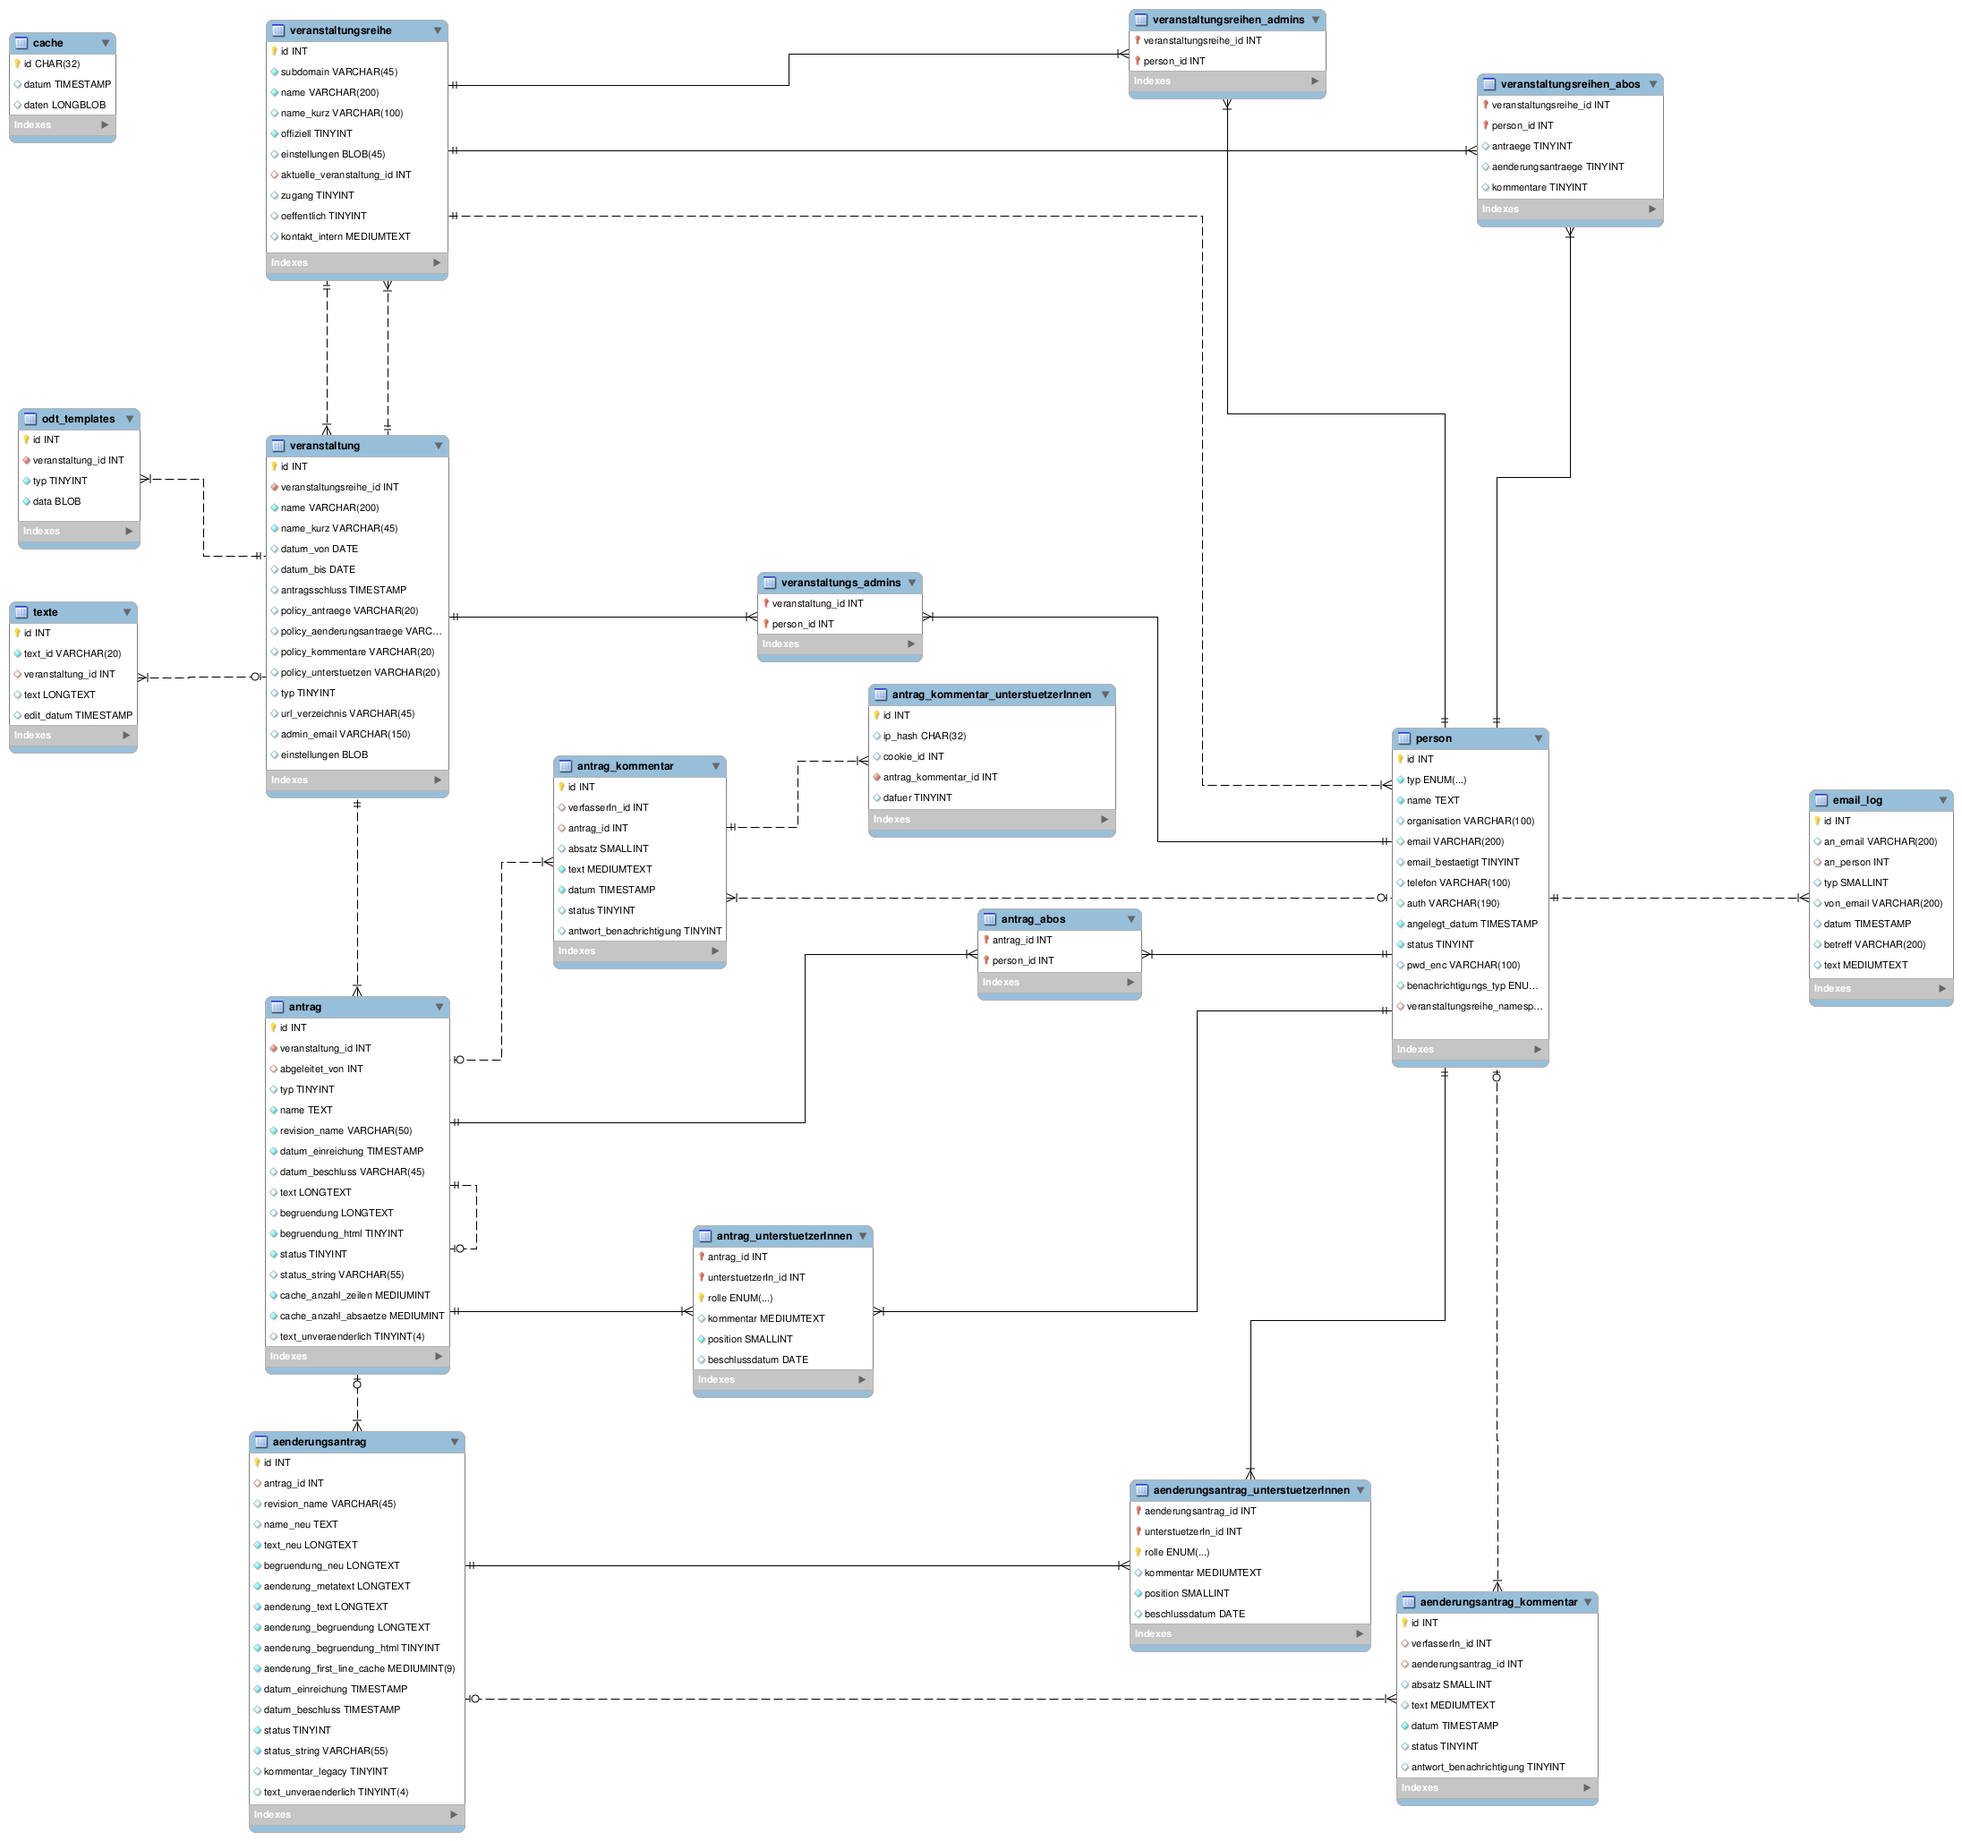
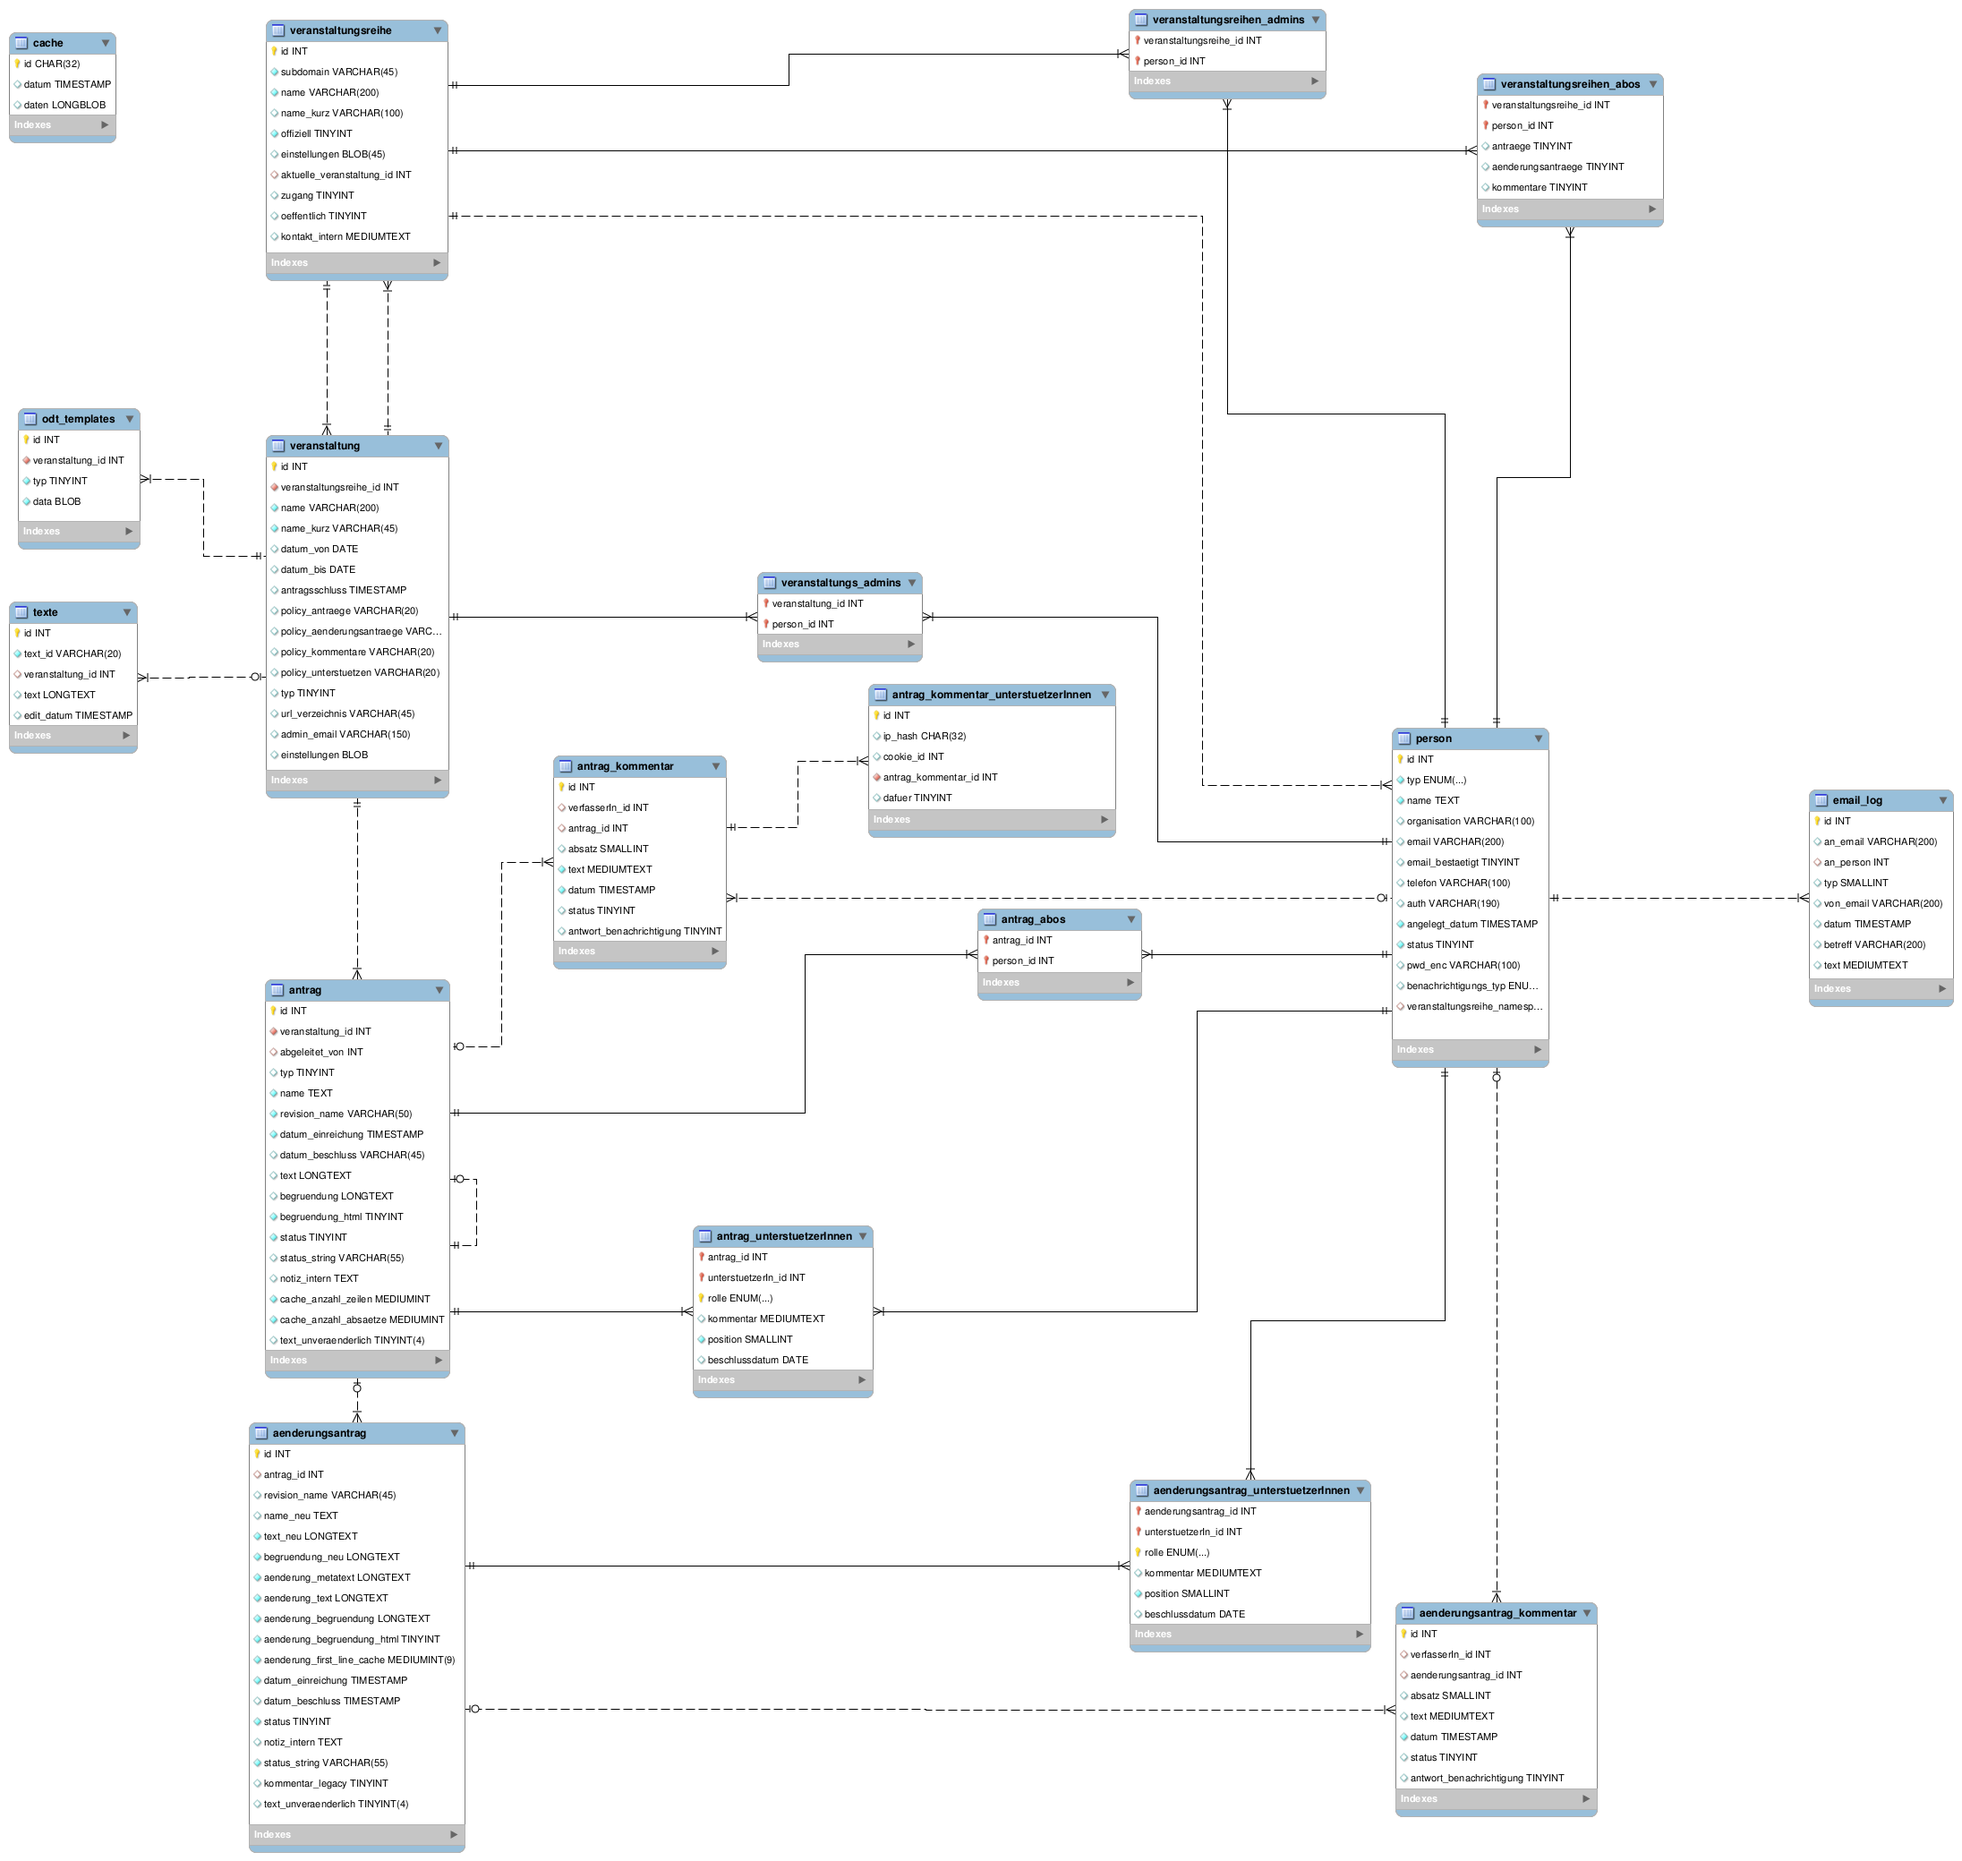
Interne Notiz bei Anträgen

diff --git a/protected/views/admin/aenderungsantraege/_form.php b/protected/views/admin/aenderungsantraege/_form.php
@@ -1,78 +1,85 @@
 <div class="form">
 
 
-<?php
-/**
- * @var $this AenderungsantragController
- * @var $form GxActiveForm
- * @var $model Aenderungsantrag
- */
+	<?php
+	/**
+	 * @var $this AenderungsantragController
+	 * @var $form GxActiveForm
+	 * @var $model Aenderungsantrag
+	 */
 
-$form = $this->beginWidget('GxActiveForm', array(
-	'id'                   => 'aenderungsantrag-form',
-	'enableAjaxValidation' => true,
-));
+	$form = $this->beginWidget('GxActiveForm', array(
+		'id'                   => 'aenderungsantrag-form',
+		'enableAjaxValidation' => true,
+	));
 
-?>
-
-<p class="note">
-	<?php echo Yii::t('app', 'Fields with'); ?> <span class="required">*</span> <?php echo Yii::t('app', 'are required'); ?>.
-</p>
-
-<?php echo $form->errorSummary($model); ?>
-
-<div>
-	<?php echo $form->labelEx($model, 'antrag_id'); ?>
-	<?php echo $form->dropDownList($model, 'antrag_id', GxHtml::listDataEx(Antrag::model()->findAllAttributes(null, true))); ?>
-	<?php echo $form->error($model, 'antrag_id'); ?>
-</div>
-<!-- row -->
-<div>
-	<?php echo $form->labelEx($model, 'revision_name'); ?>
-	<?php echo $form->textField($model, 'revision_name'); ?>
-	<?php echo $form->error($model, 'revision_name'); ?>
-</div>
-<!-- row -->
-<div>
-	<?php echo $form->labelEx($model, 'name_neu'); ?>
-	<?php echo $form->textField($model, 'name_neu'); ?>
-	<?php echo $form->error($model, 'name_neu'); ?>
-</div>
-<!-- row -->
-<div>
-	<?php echo $form->labelEx($model, 'datum_einreichung'); ?>
-	<?php $form->widget('ext.datetimepicker.EDateTimePicker', array(
-	'model'     => $model,
-	'attribute' => "datum_einreichung",
-	'options'   => array(
-		'dateFormat' => 'yy-mm-dd',
-	),
-));
 	?>
-	<?php echo $form->error($model, 'datum_einreichung'); ?>
-</div>
-<!-- row -->
-<div>
-	<?php echo $form->labelEx($model, 'datum_beschluss'); ?>
-	<?php $form->widget('ext.datetimepicker.EDateTimePicker', array(
-	'model'     => $model,
-	'attribute' => "datum_beschluss",
-	'options'   => array(
-		'dateFormat' => 'yy-mm-dd',
-	),
-));
-	?>
-	<?php echo $form->error($model, 'datum_beschluss'); ?>
-</div>
-<!-- row -->
-<div>
-	<?php echo $form->labelEx($model, 'status'); ?>
-	<?php echo $form->dropDownList($model, 'status', Aenderungsantrag::$STATI); ?>
-	<?php echo $form->textField($model, 'status_string', array('maxlength' => 55)); ?>
-	<?php echo $form->error($model, 'status'); ?>
-</div>
-<!-- row -->
-<?php /*
+
+	<p class="note">
+		<?php echo Yii::t('app', 'Fields with'); ?> <span class="required">*</span> <?php echo Yii::t('app', 'are required'); ?>.
+	</p>
+
+	<?php echo $form->errorSummary($model); ?>
+
+	<div>
+		<?php echo $form->labelEx($model, 'antrag_id'); ?>
+		<?php echo $form->dropDownList($model, 'antrag_id', GxHtml::listDataEx(Antrag::model()->findAllAttributes(null, true))); ?>
+		<?php echo $form->error($model, 'antrag_id'); ?>
+	</div>
+	<!-- row -->
+	<div>
+		<?php echo $form->labelEx($model, 'revision_name'); ?>
+		<?php echo $form->textField($model, 'revision_name'); ?>
+		<?php echo $form->error($model, 'revision_name'); ?>
+	</div>
+	<!-- row -->
+	<div>
+		<?php echo $form->labelEx($model, 'name_neu'); ?>
+		<?php echo $form->textField($model, 'name_neu'); ?>
+		<?php echo $form->error($model, 'name_neu'); ?>
+	</div>
+	<!-- row -->
+	<div>
+		<?php echo $form->labelEx($model, 'datum_einreichung'); ?>
+		<?php $form->widget('ext.datetimepicker.EDateTimePicker', array(
+			'model'     => $model,
+			'attribute' => "datum_einreichung",
+			'options'   => array(
+				'dateFormat' => 'yy-mm-dd',
+			),
+		));
+		?>
+		<?php echo $form->error($model, 'datum_einreichung'); ?>
+	</div>
+
+	<div>
+		<?php echo $form->labelEx($model, 'datum_beschluss'); ?>
+		<?php $form->widget('ext.datetimepicker.EDateTimePicker', array(
+			'model'     => $model,
+			'attribute' => "datum_beschluss",
+			'options'   => array(
+				'dateFormat' => 'yy-mm-dd',
+			),
+		));
+		?>
+		<?php echo $form->error($model, 'datum_beschluss'); ?>
+	</div>
+
+	<div>
+		<?php echo $form->labelEx($model, 'status'); ?>
+		<?php echo $form->dropDownList($model, 'status', Aenderungsantrag::$STATI); ?>
+		<?php echo $form->textField($model, 'status_string', array('maxlength' => 55)); ?>
+		<?php echo $form->error($model, 'status'); ?>
+	</div>
+
+	<div>
+		<?php echo $form->labelEx($model, 'notiz_intern'); ?>
+		<?php echo $form->textField($model, 'notiz_intern'); ?>
+		<?php echo $form->error($model, 'notiz_intern'); ?>
+	</div>
+
+
+	<?php /*
 <div style="overflow: auto;">
     <label
             style="float: left;"><?php echo GxHtml::encode($model->getRelationLabel('aenderungsantragKommentare')); ?></label>
@@ -85,23 +92,27 @@ $form = $this->beginWidget('GxActiveForm', array(
 		?>
     </div>
 </div>
-*/ ?>
+*/
+	?>
 	<br>
+
 	<h3><?php echo GxHtml::encode($model->getRelationLabel('aenderungsantragUnterstuetzerInnen')); ?></h3>
 	<br>
-<div style="overflow: auto;">
-    <div style="float: left;">
+
+	<div style="overflow: auto;">
+		<div style="float: left;">
+			<?php
+			echo UnterstuetzerInnenAdminWidget::printUnterstuetzerInnenWidget($model, "aenderungsantragUnterstuetzerInnen");
+			?>
+		</div>
+	</div>
+	<br>
+	<br>
+
+	<div class="saveholder">
 		<?php
-		echo UnterstuetzerInnenAdminWidget::printUnterstuetzerInnenWidget($model, "aenderungsantragUnterstuetzerInnen");
+		echo GxHtml::submitButton(Yii::t('app', 'Save'), array("class" => "btn btn-primary"));
+		$this->endWidget();
 		?>
-    </div>
-</div>
-	<br>
-	<br>
-<div class="saveholder">
-	<?php
-	echo GxHtml::submitButton(Yii::t('app', 'Save'), array("class" => "btn btn-primary"));
-	$this->endWidget();
-	?>
-</div>
+	</div>
 </div><!-- form -->

diff --git a/protected/models/Aenderungsantrag.php b/protected/models/Aenderungsantrag.php
@@ -16,6 +16,7 @@
  * @property string $datum_beschluss
  * @property integer $status
  * @property string $status_string
+ * @property string $notiz_intern
  * @property int $kommentar_legacy
  * @property integer $text_unveraenderlich
  *
@@ -71,7 +72,7 @@ class Aenderungsantrag extends IAntrag
 			array('antrag_id, status, aenderung_first_line_cache, kommentar_legacy, text_unveraenderlich, aenderung_begruendung_html', 'numerical', 'integerOnly' => true),
 			array('revision_name', 'length', 'max' => 45),
 			array('status_string', 'length', 'max' => 55),
-			array('name_neu, datum_beschluss, aenderung_metatext', 'safe'),
+			array('name_neu, datum_beschluss, aenderung_metatext, notiz_intern', 'safe'),
 			array('antrag_id, revision_name, name_neu, datum_beschluss, aenderung_begruendung, aenderung_begruendung_html', 'default', 'setOnEmpty' => true, 'value' => null),
 		);
 
@@ -123,6 +124,7 @@ class Aenderungsantrag extends IAntrag
 			'status_string'                      => Yii::t('app', 'Status String'),
 			'kommentar_legacy'                   => Yii::t('app', 'Altes Kommentarsystem'),
 			'text_unveraenderlich'               => Yii::t('app', 'Text Unveränderlich'),
+			'notiz_intern'                       => Yii::t('app', 'Interne Notiz'),
 			'antrag'                             => null,
 			'aenderungsantragKommentare'         => null,
 			'aenderungsantragUnterstuetzerInnen' => null,

diff --git a/protected/models/Antrag.php b/protected/models/Antrag.php
@@ -14,6 +14,7 @@
  * @property integer $begruendung_html
  * @property integer $status
  * @property string $status_string
+ * @property string $notiz_intern
  * @property integer $cache_anzahl_zeilen
  * @property integer $cache_anzahl_absaetze
  * @property integer $text_unveraenderlich
@@ -107,7 +108,7 @@ class Antrag extends IAntrag
 			array('revision_name', 'length', 'max' => 50),
 			array('datum_beschluss', 'length', 'max' => 45),
 			array('status_string', 'length', 'max' => 55),
-			array('text', 'safe'),
+			array('text, notiz_intern', 'safe'),
 			array('abgeleitet_von, typ, datum_beschluss, text, begruendung, begruendung_html, status, status_string', 'default', 'setOnEmpty' => true, 'value' => null),
 		);
 	}
@@ -150,6 +151,7 @@ class Antrag extends IAntrag
 			'begruendung_html'         => Yii::t('app', 'Begründung in HTML'),
 			'status'                   => Yii::t('app', 'Status'),
 			'status_string'            => Yii::t('app', 'Status String'),
+			'notiz_intern'             => Yii::t('app', 'Interne Notiz'),
 			'text_unveraenderlich'     => Yii::t('app', 'Text Unveränderlich'),
 			'aenderungsantraege'       => null,
 			'veranstaltung'            => null,

diff --git a/protected/views/admin/antraege/_form.php b/protected/views/admin/antraege/_form.php
@@ -73,7 +73,6 @@
 		<?php echo $form->error($model, 'datum_einreichung'); ?>
 	</div>
 
-	<!-- row -->
 	<div>
 		<?php echo $form->labelEx($model, 'datum_beschluss'); ?>
 		<?php $form->widget('ext.datetimepicker.EDateTimePicker', array(
@@ -87,7 +86,11 @@
 		<?php echo $form->error($model, 'datum_beschluss'); ?>
 	</div>
 
-	<!-- row -->
+	<div>
+		<?php echo $form->labelEx($model, 'notiz_intern'); ?>
+		<?php echo $form->textField($model, 'notiz_intern'); ?>
+		<?php echo $form->error($model, 'notiz_intern'); ?>
+	</div>
 
 	<?php if ($model->text_unveraenderlich == 0) { ?>
 

diff --git a/History.md b/History.md
@@ -4,7 +4,11 @@
 * OpenOffice-Export mit Unterstützung von Templates (noch Alpha, BDK)
 * Bei (Änderungs-)Antragsbegründungen lassen sich nun einige erweiterte Formatierungen aktivieren, wie beispielsweise Tabellen oder Zitate. (noch Alpha, BDK)
 * Bugfix: Beim Copy/Paste von Texten in das Textformular gingen gelegentlich Zeilenumbrüche verloren.
-
+* "Antragstitel" heißt jetzt "Überschrift" (BDK)
+* Weitere Stati: Pausiert, Informationen fehlen, Nicht zugelassen
+* Der Status-Erweiterungstext aus dem Backend wird immer mit angezeigt, sofern vorhanden.
+* Bei Anträgen und Änderungsanträgen gibt es nun im Admin-Backend ein internes Feld "Interne Notiz", die nur Admins sehen können.
+* Das Beschlussdatum bei Gremien, die einen (Änderungs-)Antrag einreichen, wurde an vielen Stellen noch nicht angezeigt.
 
 2.3.0 - 2014-09-08
 ==================
